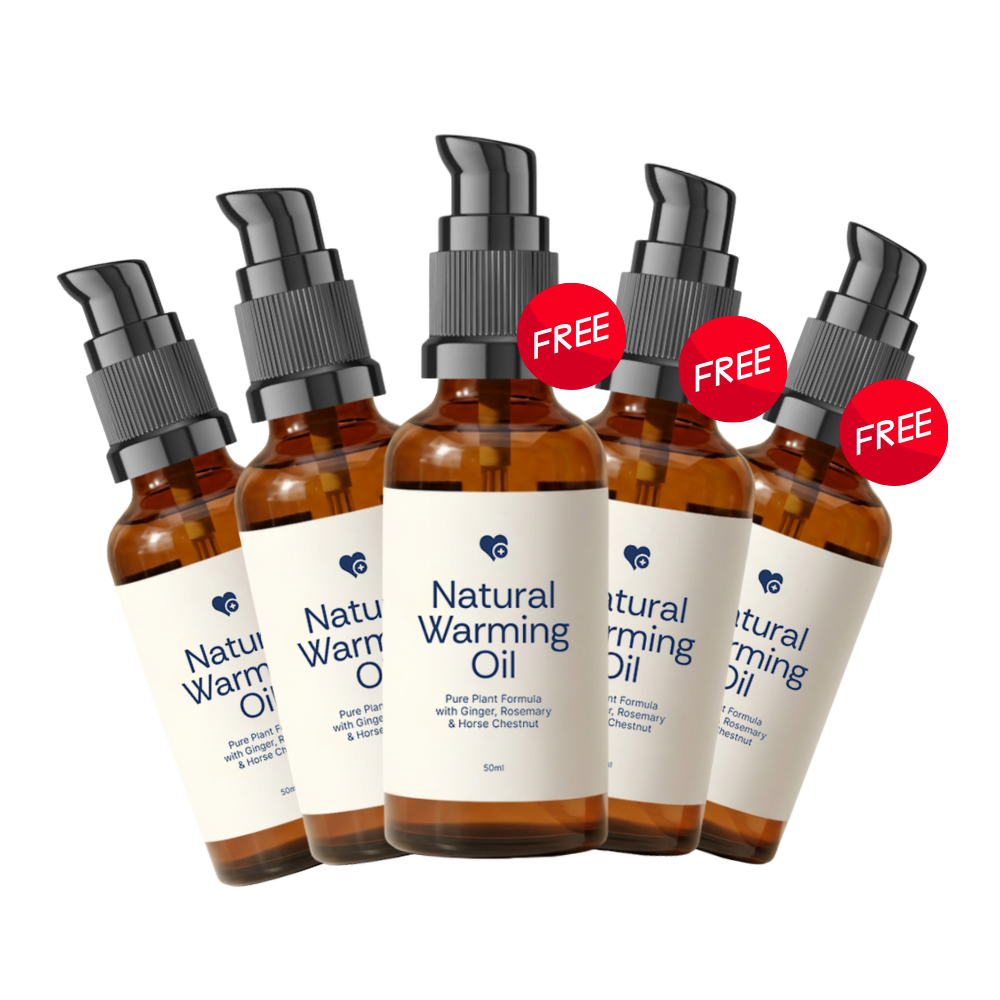
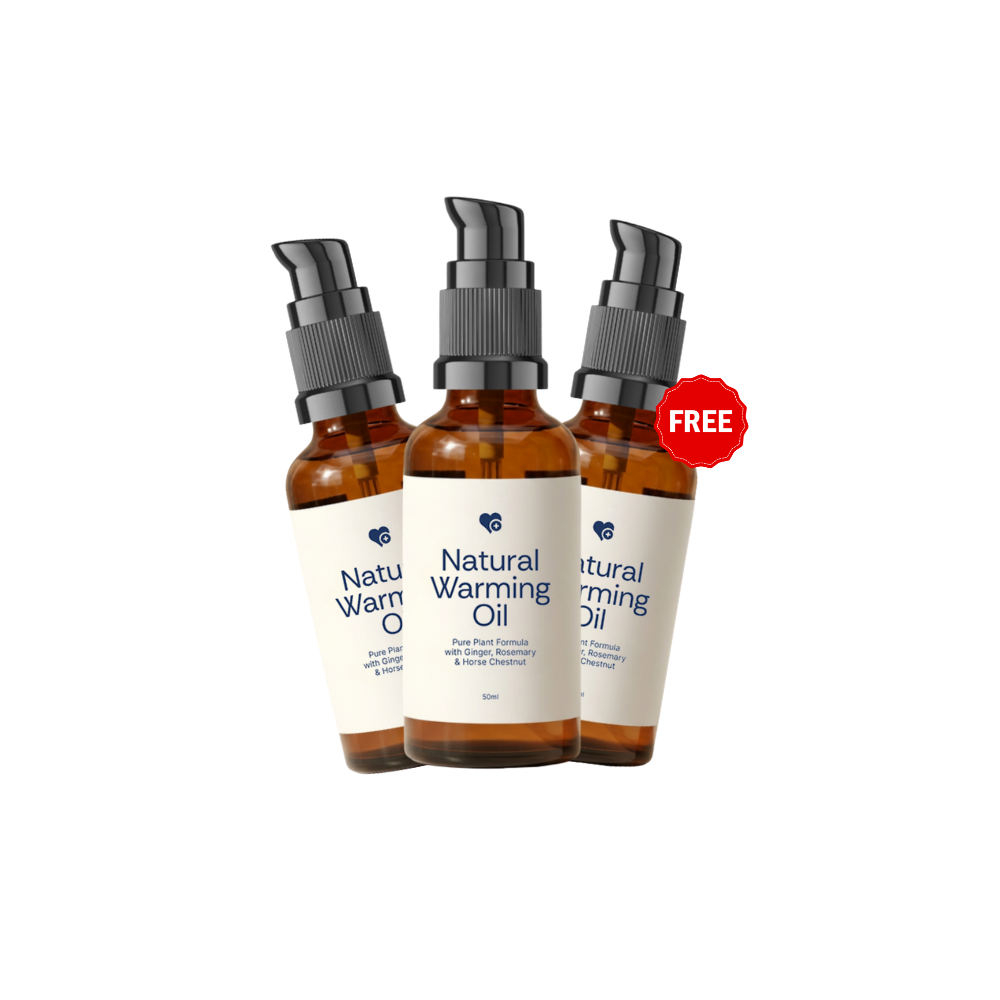
update downsell page: new copy, coupon bar, timer, 3-bottle offer

diff --git a/index.html b/index.html
@@ -2007,7 +2007,7 @@ body,
         </div>
         <div class="upsec1 flt">
             <div class="container bdinpad">
-                <p class="ups1-hd1">🎁 <span class="warning-red">WAIT:</span> <span class="warning-black">Get 3 Bottle on us</span></p>
+                <p class="ups1-hd1">🎁 <span class="warning-red">WAIT:</span> <span class="warning-black">Get Your 3rd Bottle on Us</span></p>
                 <hr class="headline-break">
                 <div class="content-edit-anchor warming-oil-content warming-oil-source">
     <div class="photo photo1-hero"><img src="productph.png" alt="Nurovita product"></div>
@@ -2069,45 +2069,41 @@ body,
 </script>
 
   <section>
-    <p class="line b">I Know 5 Bottles Is Too Much.</p>
+    <p class="line b">I Know 5 Bottles Was Too Much.</p>
     <p class="line">Fair enough.</p>
-    <p class="line b">Here&rsquo;s why I&rsquo;m still talking:</p>
-    <p class="line">Your Roller works. The menthol wakes your collagen during the day. Centella feeds it. The rebuild has already started.</p>
-    <p class="line b">That&rsquo;s the day step.</p>
+    <p class="line">Your Roller works. The menthol wakes your collagen during the day. Centella feeds it.</p>
+    <p class="line b">That part is real. You made a smart decision.</p>
     <p class="line">But here&rsquo;s what happens at night.</p>
-    <p class="line">After menopause, blood flow to your legs slows down while you sleep. Way down.</p>
-    <p class="line b">That collagen your Roller just woke up? It sits there. Starving. All night long. No circulation means no rebuild.</p>
-    <p class="line">The Warming Oil keeps it going. Ginger Root Oil keeps night circulation moving so the rebuild doesn&rsquo;t stall at 2 a.m.</p>
+    <p class="line">After menopause, blood flow to your legs slows while you sleep.</p>
+    <p class="line">That collagen your Roller just woke up? It sits there. <b>Starving.</b> All night long.</p>
+    <p class="line">The Warming Oil keeps it going. Ginger Root Oil keeps night circulation moving.</p>
     <p class="line b">Day wakes it. Night feeds it. That&rsquo;s the full protocol.</p>
-    <p class="line">Without the Oil, your Roller still works. It just won&rsquo;t have help at night.</p>
-    <p class="line b">And summer&rsquo;s coming.</p>
-    <p class="line">You know the routine. Long skirt to the pool edge. Quick strip. Jump in fast before anyone looks.</p>
-    <p class="line">Your granddaughter tugs your hand. &ldquo;Come swim with me, Grandma.&rdquo;</p>
-    <p class="line">You hesitate.</p>
-    <p class="line">You say &ldquo;maybe later, sweetie.&rdquo;</p>
-    <p class="line b">Again.</p>
+    <p class="line">Without both steps, you&rsquo;ll still see results.</p>
+    <p class="line b">Just weeks slower. And summer is already here.</p>
+    <p class="line">Your granddaughter asks &ldquo;Grandma, will you swim with us?&rdquo;</p>
+    <p class="line">You look down at your legs.</p>
+    <p class="line">You make an excuse. Again.</p>
     <p class="line b">8 out of 10 women saw their first change in 10 days using both steps.</p>
-    <p class="line">We&rsquo;re offering the 3rd bottle FREE. 90 days to try it. Full money back if it doesn&rsquo;t deliver.</p>
+    <p class="line">We&rsquo;re offering the 3rd bottle FREE.</p>
     <p class="line b">And you&rsquo;re about to say no.</p>
   </section>
 
   <hr class="headline-break">
 
   <section>
-    <h2>Why 3 Bottles Are On Me</h2>
-    <p class="line">Because the first results will lie to you.</p>
-    <p class="line">You use the Oil every night. The Ginger Root keeps night circulation moving while you sleep.</p>
-    <p class="line">Surface collagen fills in first. Skin looks smoother. You think the job is done.</p>
+    <h2>Why The 3rd Bottle Is On Me</h2>
+    <p class="line">Because I&rsquo;ve watched what happens when women stop at week 4.</p>
+    <p class="line">Surface collagen fills in first. Skin looks smoother. She thinks she&rsquo;s done.</p>
     <p class="line b">It isn&rsquo;t.</p>
-    <p class="line">Deep structural collagen needs more time. It needs sustained night circulation. Night after night after night.</p>
+    <p class="line">Deep structural collagen needs more time. It needs night circulation flowing, night after night after night.</p>
+    <p class="line">Without that deep foundation, the surface rebuild <b>fades</b>.</p>
+    <p class="line">Week 6 hits. Progress disappears.</p>
+    <p class="line">She blames the Roller.</p>
+    <p class="line b">It was never the Roller.</p>
+    <p class="line">It was quitting the night step before the deep rebuild was finished.</p>
     <p class="line b">Day wakes it. Night feeds it. But only if you keep going.</p>
-    <p class="line">Your mirror will tell you it&rsquo;s working at week 4. Your brain will say, &ldquo;I can stop now.&rdquo;</p>
-    <p class="line b">That&rsquo;s the trap.</p>
-    <p class="line">Without the deep foundation, the surface rebuild fades. Every time.</p>
-    <p class="line">That&rsquo;s not a sales pitch. That&rsquo;s what collagen does.</p>
-    <p class="line b">I won&rsquo;t let your own early progress trick you out of the full rebuild.</p>
-    <p class="line b">Pay for 2. The other 3 are on me.</p>
-    <p class="line b">90 days. Full collagen rebuild. Surface and structure.</p>
+    <p class="line">Give it 90 days.</p>
+    <p class="line b">Pay for 2. The 3rd is on me.</p>
   </section>
 
   <section>
@@ -2116,7 +2112,7 @@ body,
       <div class="packs">
         <div class="pack rec">
           <span class="ribbon">Reserved For You</span>
-          <div class="pack-top"><span class="pack-name">5 &times; Nurovita Natural Warming Oil</span><span class="pack-badge">SAVE $100</span></div><div class="photo product-oil-photo inline-product-oil"><img src="productoil.png" alt="5 bottles of Nurovita Natural Warming Oil"></div>
+          <div class="pack-top"><span class="pack-name">3 &times; Nurovita Natural Warming Oil</span><span class="pack-badge">SAVE $100</span></div><div class="photo product-oil-photo inline-product-oil"><img src="productoil.png" alt="5 bottles of Nurovita Natural Warming Oil"></div>
           <div class="modes">
             <div class="mode">
               <div class="mode-price"><b>$19.97</b> / bottle &nbsp;<s>$49.90</s></div>
@@ -2134,22 +2130,22 @@ body,
   <section>
     <h2>Try It 100% Risk-Free for 90 Days</h2>
     <div class="photo content-photo guarantee-badge"><img src="guarantee-badge.webp" alt="100% Satisfaction Guarantee - 90 Days Money Back"></div>
-    <p class="line">You&rsquo;re already getting 3 FREE bottles.</p>
-    <p class="line b">So let me make this simple.</p>
-    <p class="line">If the collagen rebuild doesn&rsquo;t deliver smoother, firmer, thicker skin&hellip;</p>
-    <p class="line">If you&rsquo;re still hiding your legs by summer&hellip;</p>
+    <p class="line">You&rsquo;re already getting a FREE bottle.</p>
+    <p class="line b">But here&rsquo;s what makes this a complete no-brainer:</p>
+    <p class="line">If you don&rsquo;t feel your skin getting smoother and firmer&hellip;</p>
+    <p class="line">If you&rsquo;re still hiding your legs come summer&hellip;</p>
     <p class="line">If your granddaughter asks you to swim and you still say no&hellip;</p>
     <p class="line b">I&rsquo;ll give you every penny back.</p>
     <p class="line">No forms. No arguing. No &ldquo;please hold.&rdquo;</p>
-    <p class="line b">You keep all 5 bottles.</p>
-    <p class="line">3 free bottles. Day wakes it. Night feeds it. And if 90 days of the full protocol doesn&rsquo;t rebuild what menopause took&hellip; you pay nothing.</p>
+    <p class="line b">You keep all 3 bottles.</p>
+    <p class="line">A free bottle. A full refund if it doesn&rsquo;t work. No questions, no hassles.</p>
     <p class="line b">What&rsquo;s stopping you?</p>
     <div class="pricebox">
       <div class="price-h">Complete Your Day &amp; Night Ritual</div>
       <div class="packs">
         <div class="pack rec">
           <span class="ribbon">Reserved For You</span>
-          <div class="pack-top"><span class="pack-name">5 &times; Nurovita Natural Warming Oil</span><span class="pack-badge">SAVE $100</span></div><div class="photo product-oil-photo inline-product-oil"><img src="productoil.png" alt="5 bottles of Nurovita Natural Warming Oil"></div>
+          <div class="pack-top"><span class="pack-name">3 &times; Nurovita Natural Warming Oil</span><span class="pack-badge">SAVE $100</span></div><div class="photo product-oil-photo inline-product-oil"><img src="productoil.png" alt="5 bottles of Nurovita Natural Warming Oil"></div>
           <div class="modes">
             <div class="mode">
               <div class="mode-price"><b>$19.97</b> / bottle &nbsp;<s>$49.90</s></div>
